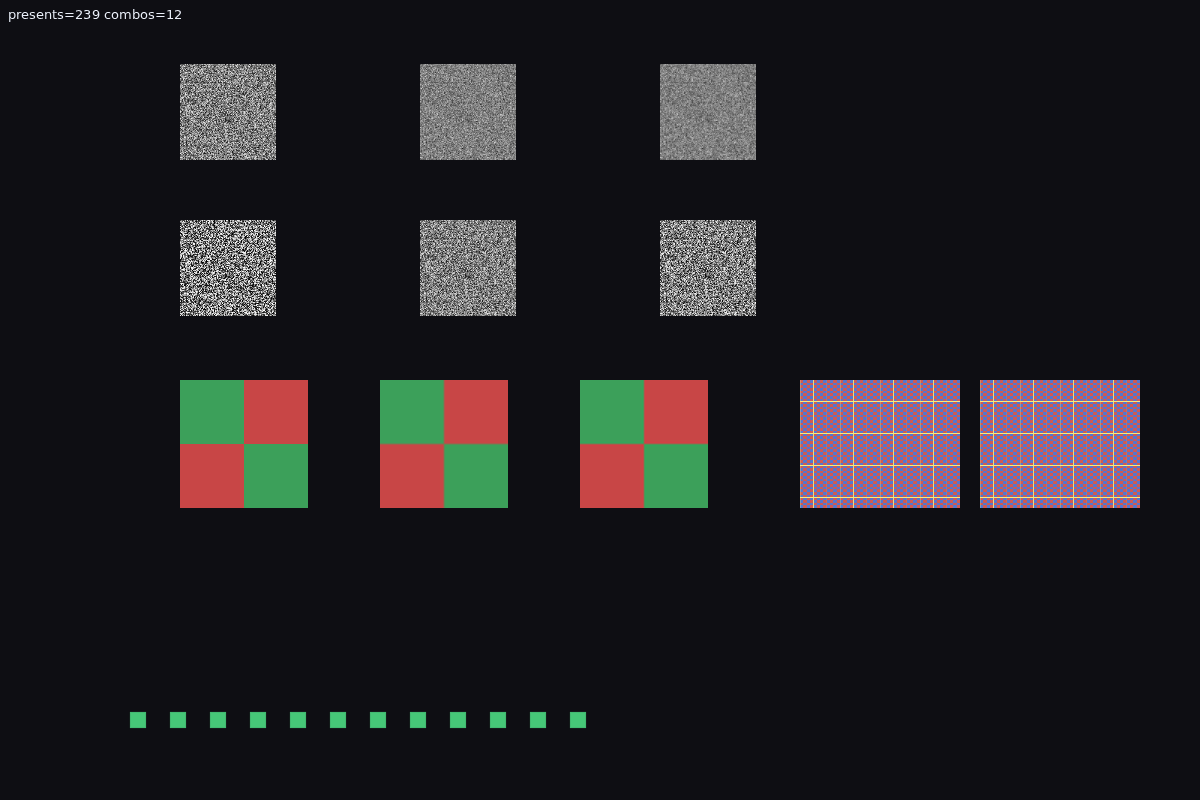
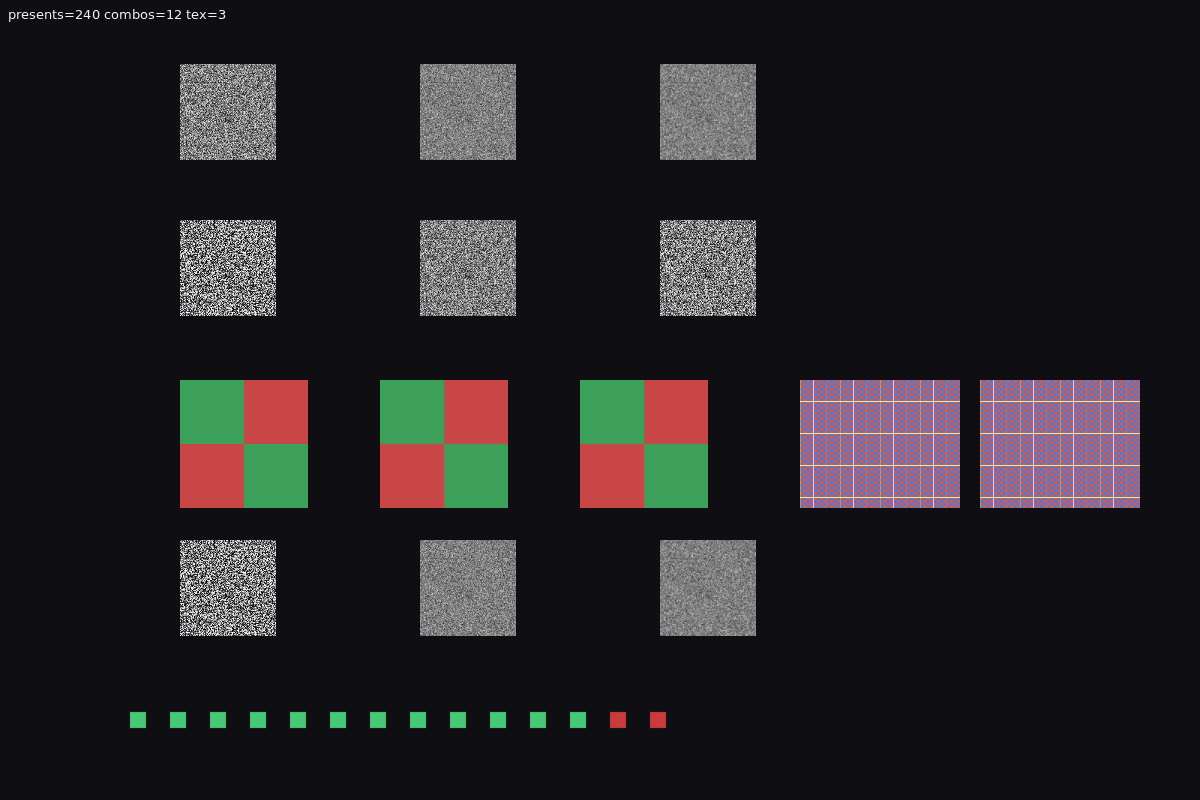
缺口4 ④窗臂F：tex.Filter→FilterToRender→精灵字段，跨臂逐位等价三对全 0
- 臂 f 三格（texArmFilters）：f0 零值 Mip 透传（未选→MipmapNone 历史单层路）、f1 DefaultFilter、f2 trilinear；列与等价手臂对齐（f0↔b0/f1↔a1/f2↔a2）
- 探针 10→13：tex_road_carries_expected_pairs（FilterToRender 折出对=等价手臂所用对）+ filtertorender_refuses_uncarryable（三哨兵 errors.Is）+ tex_road_bitwise_matches_enum_road（同几何同源图跨臂逐位 diff=0——转换忠实携带的最强像素证据）
- 语义像素 7→9：tex 拒绝红牌两张（混合轴/aniso>1 具名拒绝 fail-closed 可见，牌色像素断言）；gpu_ops 25→30 有界
- 金图口径全走：先删基线→GPUI_ACCEPT_GOLDEN=1 播种（播种跑仍判红）→native 复验 0.0000%→go 播种→go 复验 0.0000%→稳定轮 0.0000%→两后端基线 cmp 逐位相同（gap4-window4-runs.txt 正本）
- 变异有牙齿：linear 腿临时改投 nearest ⇒ tex_road_carries_expected_pairs+tex_road_bitwise_matches_enum_road 双红（像素差 23110/165、23131/157），还原复绿 13/13+0.0000%（gap4-mutation.txt 正本）
- README 口径翻转：原「tex.Filter↔AtlasFilter 映射不在本窗」登记由臂 f 兑现

diff --git a/examples/engine/p37_mip_exit/main.go b/examples/engine/p37_mip_exit/main.go
@@ -17,6 +17,10 @@
 //	   （批 4「零值即历史路」的窗内版）；
 //	e) 档位映射面板：4 档 Filter × 3 档 Mipmap 的合法组合经 ToRender 全部逐字段
 //	   带到（12 枚绿牌）；ParseMipmap/ParseFilter 非法输入具名拒绝。
+//	f) tex 驱动面板（缺口 4 档 A）：真源 tex.Filter 经 renderconv.FilterToRender
+//	   带到精灵字段再 ToRender——f0 零值 Mip 透传（≡MipmapNone 历史单层路）、
+//	   f1 DefaultFilter、f2 trilinear；三格与枚举臂同几何同源图跨臂逐位等价
+//	   （f0≡b0、f1≡a1、f2≡a2，diff=0）。混合轴/未选轴/aniso>1 具名拒绝红牌。
 //
 // 缩小源图取 LCG 确定性噪声（承接 ui_wr_p36_mipmap 配方，种子 12345）：
 // 8px 规则棋盘配整数 4x 缩小时，bilinear 采样点恒落同一格内（样本对
@@ -24,8 +28,10 @@
 // 256→96 的 2.667x 给出非整数 LOD≈1.42，Nearest（取整到档 1）与
 // Linear（档 1/2 按 0.42 混合）才可能分叉。
 //
-// 登记口径如实：tex.Filter↔AtlasFilter→DrawImageOptions.Mipmap 的 renderconv
-// 映射（批 4 明文未做，待「档位挂引擎哪个对象」拍板）不在本窗，探针不冒充。
+// 登记口径兑现（2026-11-06 缺口 4 档 A）：tex.Filter→renderconv.FilterToRender
+// →精灵字段的映射由臂 f 承载——三格 tex 驱动与既有枚举臂同几何同源图做跨臂
+// 逐位等价（f0≡b0、f1≡a1、f2≡a2），「转换忠实携带」的最强像素证据；混合轴/
+// 未选轴/aniso>1 经 FilterToRender 具名拒绝，出红牌。
 //
 // 满窗即内容：指标行浮左上（金图 mask 掉 y<32 带）；画面相位只随已完成帧数走、
 // 过 settling 帧后定格（H15）。金图按后端分文件
@@ -45,6 +51,7 @@ package main
 
 import (
 	"encoding/json"
+	"errors"
 	"flag"
 	"fmt"
 	"os"
@@ -52,7 +59,9 @@ import (
 	"time"
 
 	"github.com/energye/gpui/engine/core"
+	"github.com/energye/gpui/engine/renderconv"
 	"github.com/energye/gpui/engine/sprite"
+	"github.com/energye/gpui/engine/tex"
 	"github.com/energye/gpui/examples/wrgate"
 	"github.com/energye/gpui/examples/wrkit"
 	"github.com/energye/gpui/render"
@@ -94,6 +103,10 @@ const (
 	dX1   = 980.0
 	dW    = 160.0
 	dH    = 128.0
+
+	// 臂 f：tex 驱动面板（tex.Filter → FilterToRender → 精灵字段；列与等价
+	// 对手臂对齐：f0↔b0 列 0、f1↔a1 列 1、f2↔a2 列 2）。
+	fTopY = 540.0
 
 	// 档位映射面板底带。
 	chipsY   = 712.0
@@ -206,6 +219,24 @@ func directSprite(dstX, dstY, dstW, dstH float64) render.AtlasSprite {
 	}
 }
 
+// texSprite 臂 f 入口：真源 tex.Filter 经 renderconv.FilterToRender 折成精灵
+// 两枚档位字段（缺口 4 档 A 的引擎路：转换不改精灵构造，只喂字段）。
+func texSprite(img *render.ImageBuf, dstX, dstY, dstW, dstH float64, f tex.Filter) (sprite.AtlasSprite, error) {
+	interp, mip, err := renderconv.FilterToRender(f)
+	if err != nil {
+		return sprite.AtlasSprite{}, err
+	}
+	return engineSprite(img, dstX, dstY, dstW, dstH, interp, mip), nil
+}
+
+// texArmFilters 臂 f 三格的真源档位：f0 零值 Mip 透传（未选→MipmapNone 历史
+// 单层路），f1 历史默认，f2 trilinear；aniso 全部 ≤1（精灵路无承载字段）。
+var texArmFilters = []tex.Filter{
+	{Near: tex.KindNearest, Far: tex.KindNearest},
+	tex.DefaultFilter(),
+	{Near: tex.KindLinear, Far: tex.KindLinear, Mip: tex.MipLinear, MaxAniso: tex.DefaultAniso},
+}
+
 func drawEngine(dc render.Canvas, img *render.ImageBuf, s sprite.AtlasSprite) error {
 	mapped, err := s.ToRender()
 	if err != nil {
@@ -258,10 +289,29 @@ func paintAll(dc render.Canvas, w, h float64) error {
 	if _, err := dc.DrawAtlasEx(checker, []render.AtlasSprite{directSprite(dX1, dTopY, dW, dH)}, render.AtlasDrawOptions{}); err != nil {
 		return err
 	}
-	// 档位映射面板（12 枚绿牌 = 4 Filter × 3 Mipmap 全组合经 ToRender 逐字段带到）。
+	// 臂 f：tex 驱动面板（真源 tex.Filter → FilterToRender → 精灵字段 →
+	// ToRender；跨臂逐位等价 f0≡b0、f1≡a1、f2≡a2 由探针核对）。
+	for i, tf := range texArmFilters {
+		s, err := texSprite(noise, aX0+float64(i)*aStepX, fTopY, aDstW, aDstH, tf)
+		if err != nil {
+			return err
+		}
+		if err := drawEngine(dc, noise, s); err != nil {
+			return err
+		}
+	}
+	// 档位映射面板（12 枚绿牌 = 4 Filter × 3 Mipmap 全组合经 ToRender 逐字段带到）
+	// + tex 路拒绝牌两枚红牌（混合轴 / aniso>1 经 FilterToRender 具名拒绝，
+	// fail-closed 可见；拒绝真实性由 filtertorender_refuses 探针核对）。
 	for i := 0; i < 12; i++ {
 		x := 130.0 + float64(i)*chipStep
 		dc.SetRGB(70.0/255, 200.0/255, 120.0/255)
+		dc.DrawRectangle(x, chipsY, chipW, chipW)
+		_ = dc.Fill()
+	}
+	for i := 0; i < 2; i++ {
+		x := 130.0 + float64(12+i)*chipStep
+		dc.SetRGB(200.0/255, 60.0/255, 60.0/255)
 		dc.DrawRectangle(x, chipsY, chipW, chipW)
 		_ = dc.Fill()
 	}
@@ -432,9 +482,71 @@ func runProbes() probeReport {
 	dn, dw := diffBytes(dA, dB)
 	rep.extra["zero_road_diff_px"] = dn
 	rep.add("zero_value_road_bitwise", dn == 0 && dw == 0, fmt.Sprintf("diff=%d worst=%d", dn, dw))
+
+	// 6b) tex 路（缺口 4 档 A）：FilterToRender 折出的枚举对必须正是等价手臂
+	// 所用的那对——f0→(Nearest,MipmapNone)≡b0、f1→(Bilinear,MipmapNearest)≡a1、
+	// f2→(Bilinear,MipmapLinear)≡a2（零值 Mip 透传保历史单层路）。
+	wantPairs := []struct {
+		f render.InterpolationMode
+		m render.MipmapMode
+	}{{render.InterpNearest, render.MipmapNone}, {render.InterpBilinear, render.MipmapNearest}, {render.InterpBilinear, render.MipmapLinear}}
+	texCarryOK := true
+	texCarryGot := ""
+	for i, tf := range texArmFilters {
+		gotF, gotM, err := renderconv.FilterToRender(tf)
+		if err != nil {
+			texCarryOK = false
+			texCarryGot += fmt.Sprintf("f%d 拒了合法档位: %v；", i, err)
+			continue
+		}
+		if gotF != wantPairs[i].f || gotM != wantPairs[i].m {
+			texCarryOK = false
+			texCarryGot += fmt.Sprintf("f%d 折成 (%v,%v) want (%v,%v)；", i, gotF, gotM, wantPairs[i].f, wantPairs[i].m)
+		}
+	}
+	rep.extra["tex_road_filters"] = len(texArmFilters)
+	rep.add("tex_road_carries_expected_pairs", texCarryOK, texCarryGot+"三格折出对=等价手臂所用对")
+
+	// 6c) tex 路具名拒绝（混合轴 / 未选轴 / aniso>1；不许借采样折叠的屏蔽放行）。
+	mixed := tex.Filter{Near: tex.KindNearest, Far: tex.KindLinear, Mip: tex.MipNearest, MaxAniso: tex.DefaultAniso}
+	unset := tex.Filter{Near: tex.KindLinear, Far: tex.KindLinear, Mip: tex.MipNearest, MaxAniso: tex.DefaultAniso}
+	unset.Near = tex.KindUnknown
+	_, _, errMixed := renderconv.FilterToRender(mixed)
+	_, _, errUnset := renderconv.FilterToRender(unset)
+	_, _, errAniso := renderconv.FilterToRender(tex.RealisticFilter())
+	refuseOK := errors.Is(errMixed, renderconv.ErrFilterMixedAxes) &&
+		errors.Is(errUnset, renderconv.ErrFilterUnknownKind) &&
+		errors.Is(errAniso, renderconv.ErrFilterAnisoUnsupported)
+	rep.add("filtertorender_refuses_uncarryable", refuseOK,
+		fmt.Sprintf("mixed=%v unset=%v aniso4=%v", errMixed, errUnset, errAniso))
+
+	// 6d) tex 路 ≡ 枚举路跨臂逐位（同几何同源图）：转换忠实携带的最强像素证据。
+	texPairs := []struct {
+		name           string
+		fx, fy, ex, ey float64
+	}{
+		{"f0↔b0", aX0, fTopY, aX0, bTopY},
+		{"f1↔a1", aX0 + aStepX, fTopY, aX0 + aStepX, aTopY},
+		{"f2↔a2", aX0 + 2*aStepX, fTopY, aX0 + 2*aStepX, aTopY},
+	}
+	texBitOK := true
+	texBitGot := ""
+	texDiffs := map[string]int{}
+	for _, p := range texPairs {
+		fa := regionBytes(dcA, int(p.fx)+4, int(p.fy)+4, int(aDstW)-8, int(aDstH)-8)
+		en := regionBytes(dcA, int(p.ex)+4, int(p.ey)+4, int(aDstW)-8, int(aDstH)-8)
+		tdn, tdw := diffBytes(fa, en)
+		texDiffs[p.name] = tdn
+		if tdn != 0 {
+			texBitOK = false
+			texBitGot += fmt.Sprintf("%s diff=%d/%d；", p.name, tdn, tdw)
+		}
+	}
+	rep.extra["tex_road_pair_diffs"] = texDiffs
+	rep.add("tex_road_bitwise_matches_enum_road", texBitOK, texBitGot+"三对跨臂逐位等")
 	_ = dcA.Close()
 
-	// 7) GPU op 计数：档位不炸 draw（12 面板 + 零值段，单帧 op 数有限）。
+	// 7) GPU op 计数：档位不炸 draw（12 面板 + tex 臂 + 零值段，单帧 op 数有限）。
 	dcS := newCtx(w, h)
 	var st render.RenderPathStats
 	if err := flushErr(dcS, func() error {
@@ -473,6 +585,10 @@ func semanticProbes() []wrkit.PixelProbe {
 	// = (220.5,133.5,95)。两段同公式同色。
 	add("zero_road_engine_center", dX0+dW/2, dTopY+dH/2, [3]uint8{221, 134, 95})
 	add("zero_road_direct_center", dX1+dW/2, dTopY+dH/2, [3]uint8{221, 134, 95})
+	// tex 路拒绝牌（缺口 4 档 A）：混合轴 / aniso>1 具名拒绝出红牌，牌必须
+	// 真的在画面上（拒绝可见，③ 窗「空格不出拒绝」教训同源）。
+	add("tex_refusal_chip_mixed", 130+12*chipStep+chipW/2, chipsY+chipW/2, [3]uint8{200, 60, 60})
+	add("tex_refusal_chip_aniso", 130+13*chipStep+chipW/2, chipsY+chipW/2, [3]uint8{200, 60, 60})
 	return probes
 }
 
@@ -597,7 +713,7 @@ func main() {
 	var proc scheduler.ProcessTracker
 	proc.Start()
 	app.Scheduler().Tickers().Add(&tick{on: func(dt float64) bool {
-		metric.SetText(fmt.Sprintf("presents=%d combos=%d", app.PresentCount(), 12))
+		metric.SetText(fmt.Sprintf("presents=%d combos=12 tex=3", app.PresentCount()))
 		metric.MarkNeedsPaint()
 		setTitle()
 		content.MarkNeedsPaint()
